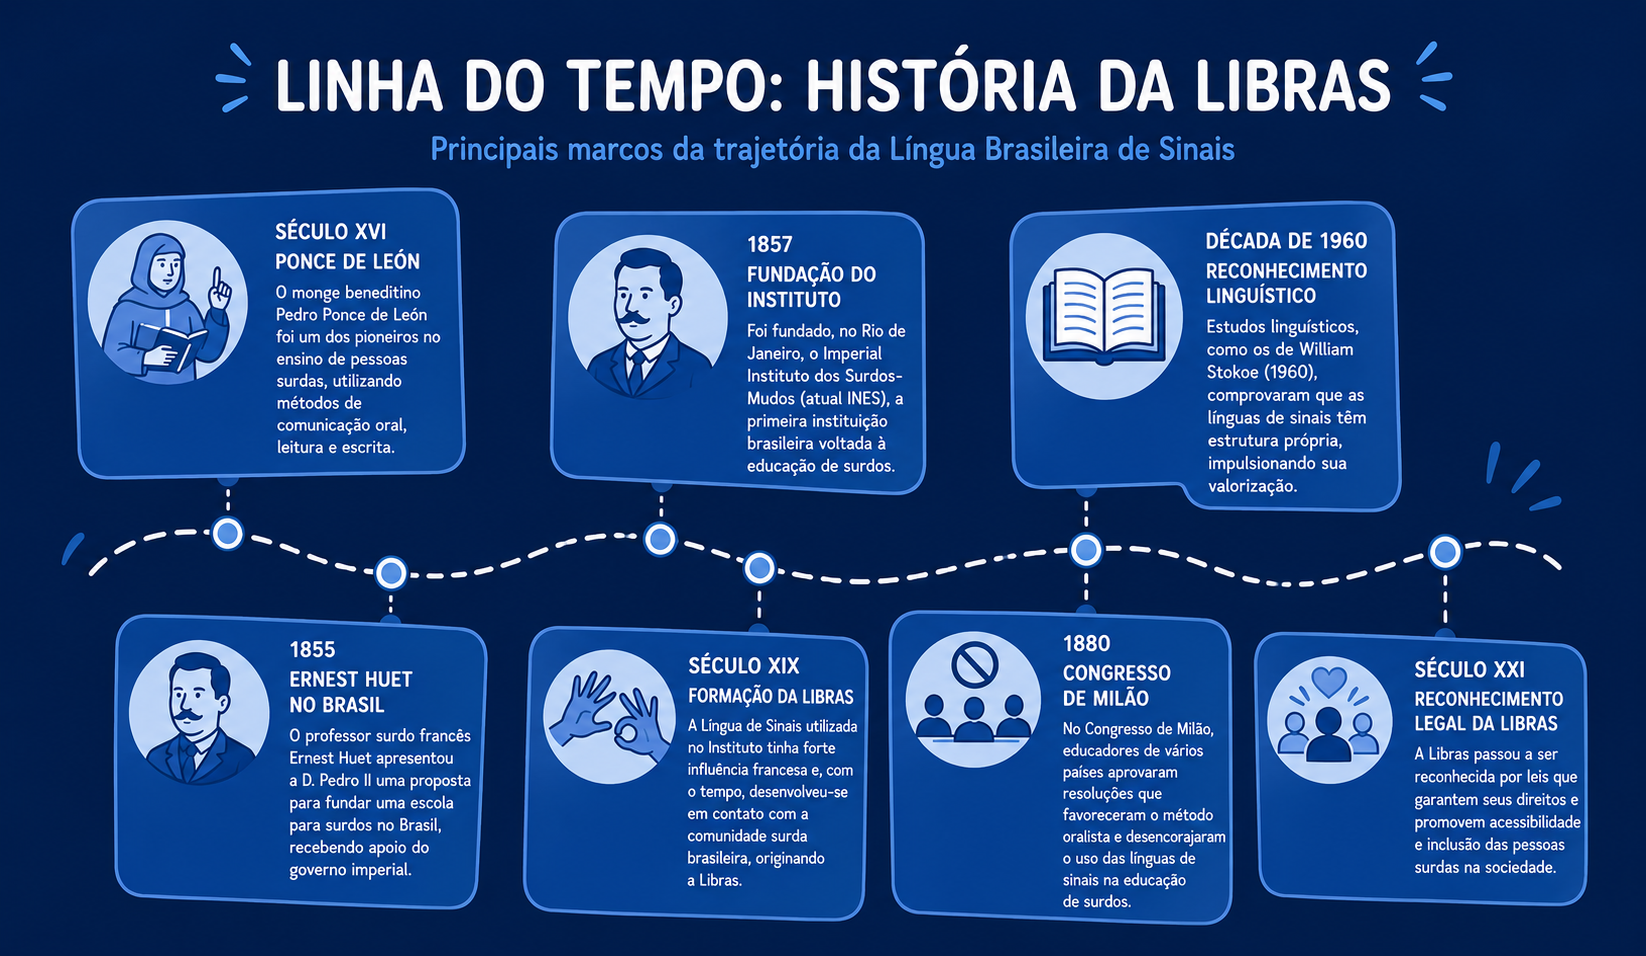
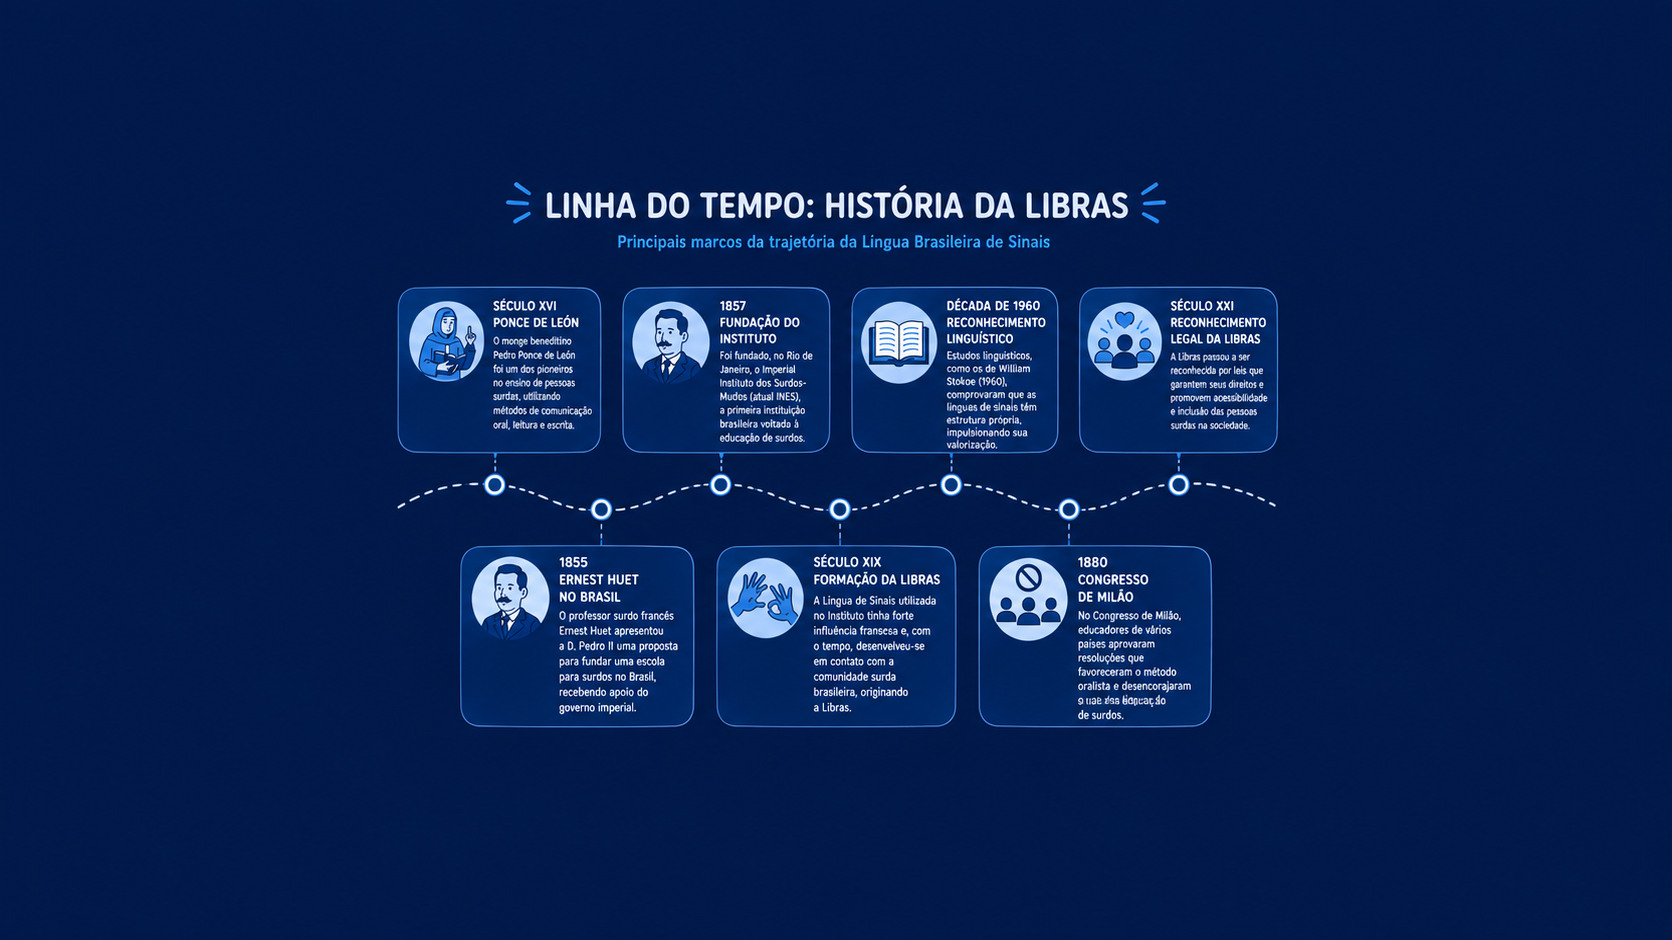
...

diff --git a/index.html b/index.html
@@ -31,16 +31,7 @@
         </section>
 
         <section id="historia" class="historia">
-            <h2>História</h2>
-            <p>A História da Língua Brasileira de Sinais, escrito por Denise Rodrigues Pereira, apresenta um histórico da evolução da língua de sinais no Brasil e no mundo. O texto começa mostrando como, na Antiguidade e na Grécia Antiga, as pessoas com deficiência eram vistas como seres desprezíveis, muitas vezes abandonadas ou mortas. Essa realidade começou a mudar com Ponce de León, um monge espanhol que passou a ensinar surdos, filhos de nobres, a ler, escrever e falar, abrindo caminho para uma nova visão sobre a educação de surdos.</p>
-
-            <p>No Brasil, a história ganhou um novo rumo em 1855, quando o imperador Dom Pedro II trouxe o professor surdo francês Ernest Huet para iniciar um trabalho de educação com surdos no país. Esse esforço resultou, em 1857, na fundação do Instituto Nacional de Educação de Surdos, no Rio de Janeiro, marco fundamental da educação formal de surdos no Brasil. Foi da mistura entre a língua de sinais francesa, trazida por Huet, e os sinais já usados localmente que nasceu a LIBRAS.</p>
             
-            <p>Um momento decisivo e negativo dessa trajetória foi o Congresso de Milão, em 1880, quando educadores ouvintes, sem dar direito de voto aos próprios surdos, decidiram banir o uso da língua de sinais nas escolas, priorizando o oralismo. Alexander Graham Bell teve papel de destaque nessa decisão, defendendo o ensino oral e criticando duramente a língua de sinais. Essa proibição perdurou por quase cem anos, período em que a comunidade surda enfrentou grande sofrimento e exclusão.</p>
-
-            <p>A partir da década de 1960, porém, estudos linguísticos começaram a comprovar que a língua de sinais possui todos os atributos de uma língua natural, o que impulsionou sua retomada e valorização. No Brasil, esse reconhecimento se consolidou por meio de diversas leis, como a Lei nº 10.436/2002, que reconhece a LIBRAS como meio legal de comunicação e expressão dos surdos; o Decreto nº 5.626/2005, que regulamenta essa lei; a Lei nº 12.319/2010, que regulamenta a profissão de tradutor e intérprete de LIBRAS; e a Lei nº 13.146/2015, que institui o Estatuto da Pessoa com Deficiência.</p>
-
-            <p>O artigo conclui destacando que, apesar de quase um século de imposição do oralismo, a língua, a identidade e a cultura da comunidade surda não desapareceram. Pelo contrário, a LIBRAS se consolidou como ferramenta essencial para o desenvolvimento cognitivo, afetivo e social das pessoas surdas, sendo hoje reconhecida como elemento fundamental para sua inclusão plena na sociedade.</p>
         </section>
 
         <div class="fundo" id="aprender">

diff --git a/CSS/style.css b/CSS/style.css
@@ -80,7 +80,7 @@ a:hover{
   margin: 70px;
   background-color: #6e8daf;
   text-align: left;
-  width: 40%;
+  width: 45%;
   height: 320px;
   border: 2px solid #5e7b9a;
   h2 {
@@ -98,7 +98,7 @@ a:hover{
   margin: 70px;
   background-color: #6e8daf;
   text-align: left;
-  width: 40%;
+  width: 45%;
   height: 320px;
   border: 2px solid #5e7b9a;
   h2 {
@@ -113,24 +113,17 @@ a:hover{
 }
 
 .historia {
-  margin-top: none;
   margin: 70px;
-  background-color: #6e8daf;
   text-align: left;
   width: 91%;
   height: 530px;
+
   border: 2px solid #5e7b9a;
-  h2 {
-    text-align: left;
-    padding: 20px;
-    margin-bottom: 0;
-  }
-  p {
-    font-size: 17px;
-    margin-top: 0;
-    margin: 20px;
-    text-align: justify;
-  }
+
+  background-image: url("/imagens/linha_do_tempo2.png");
+  background-size: 88%;
+  
+  background-position: center;
 }
 
 .videos {
